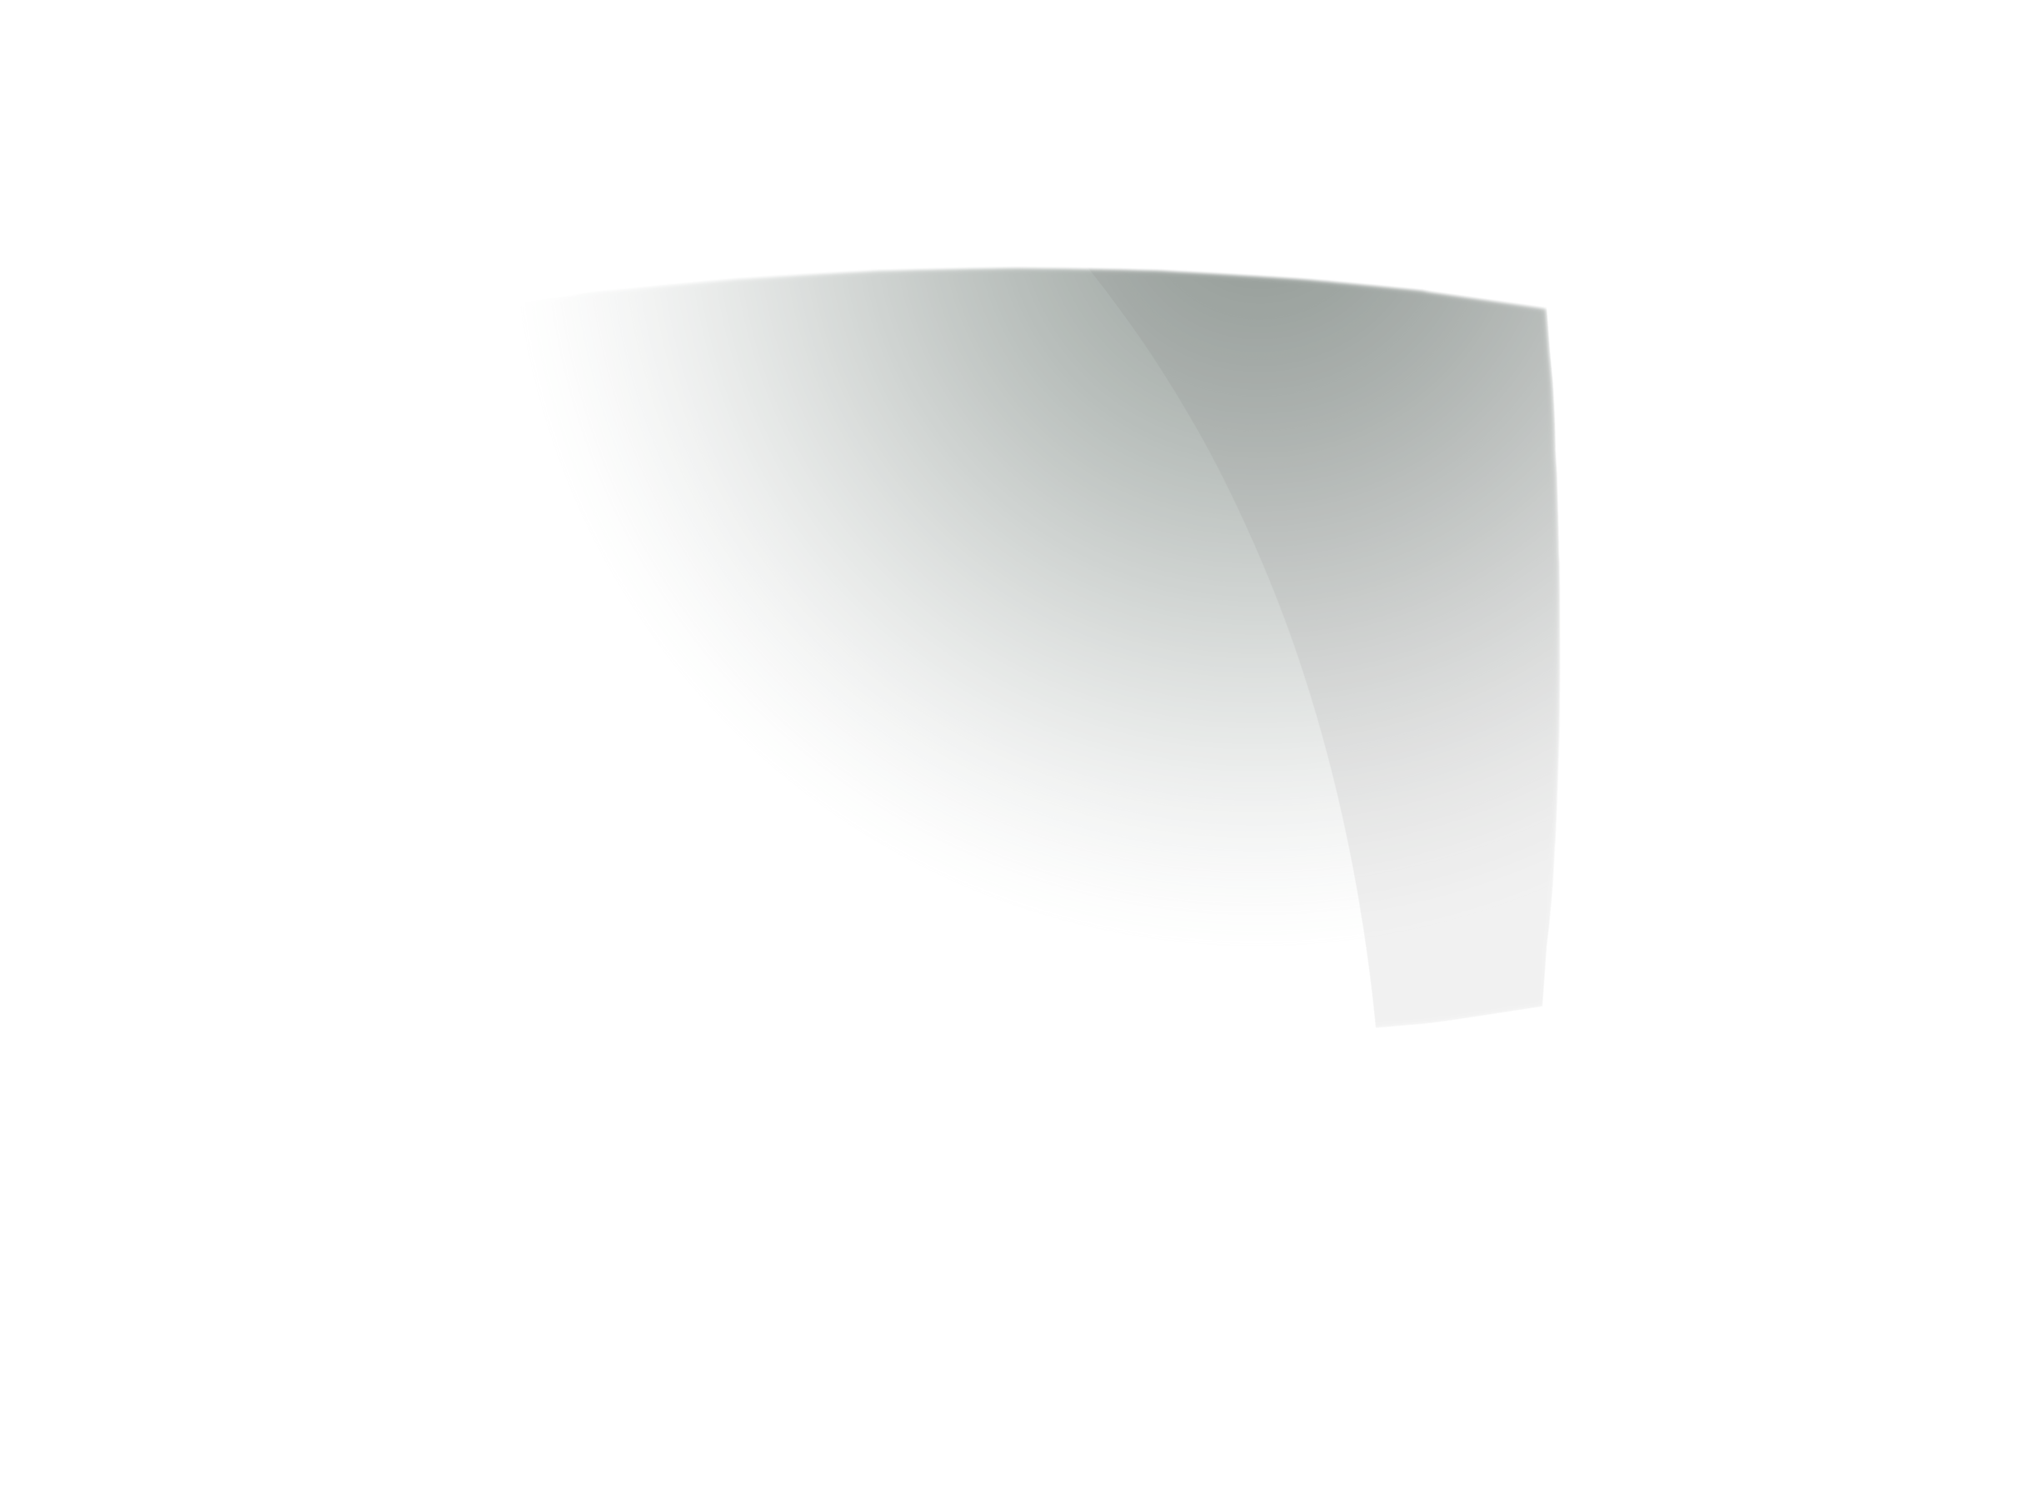
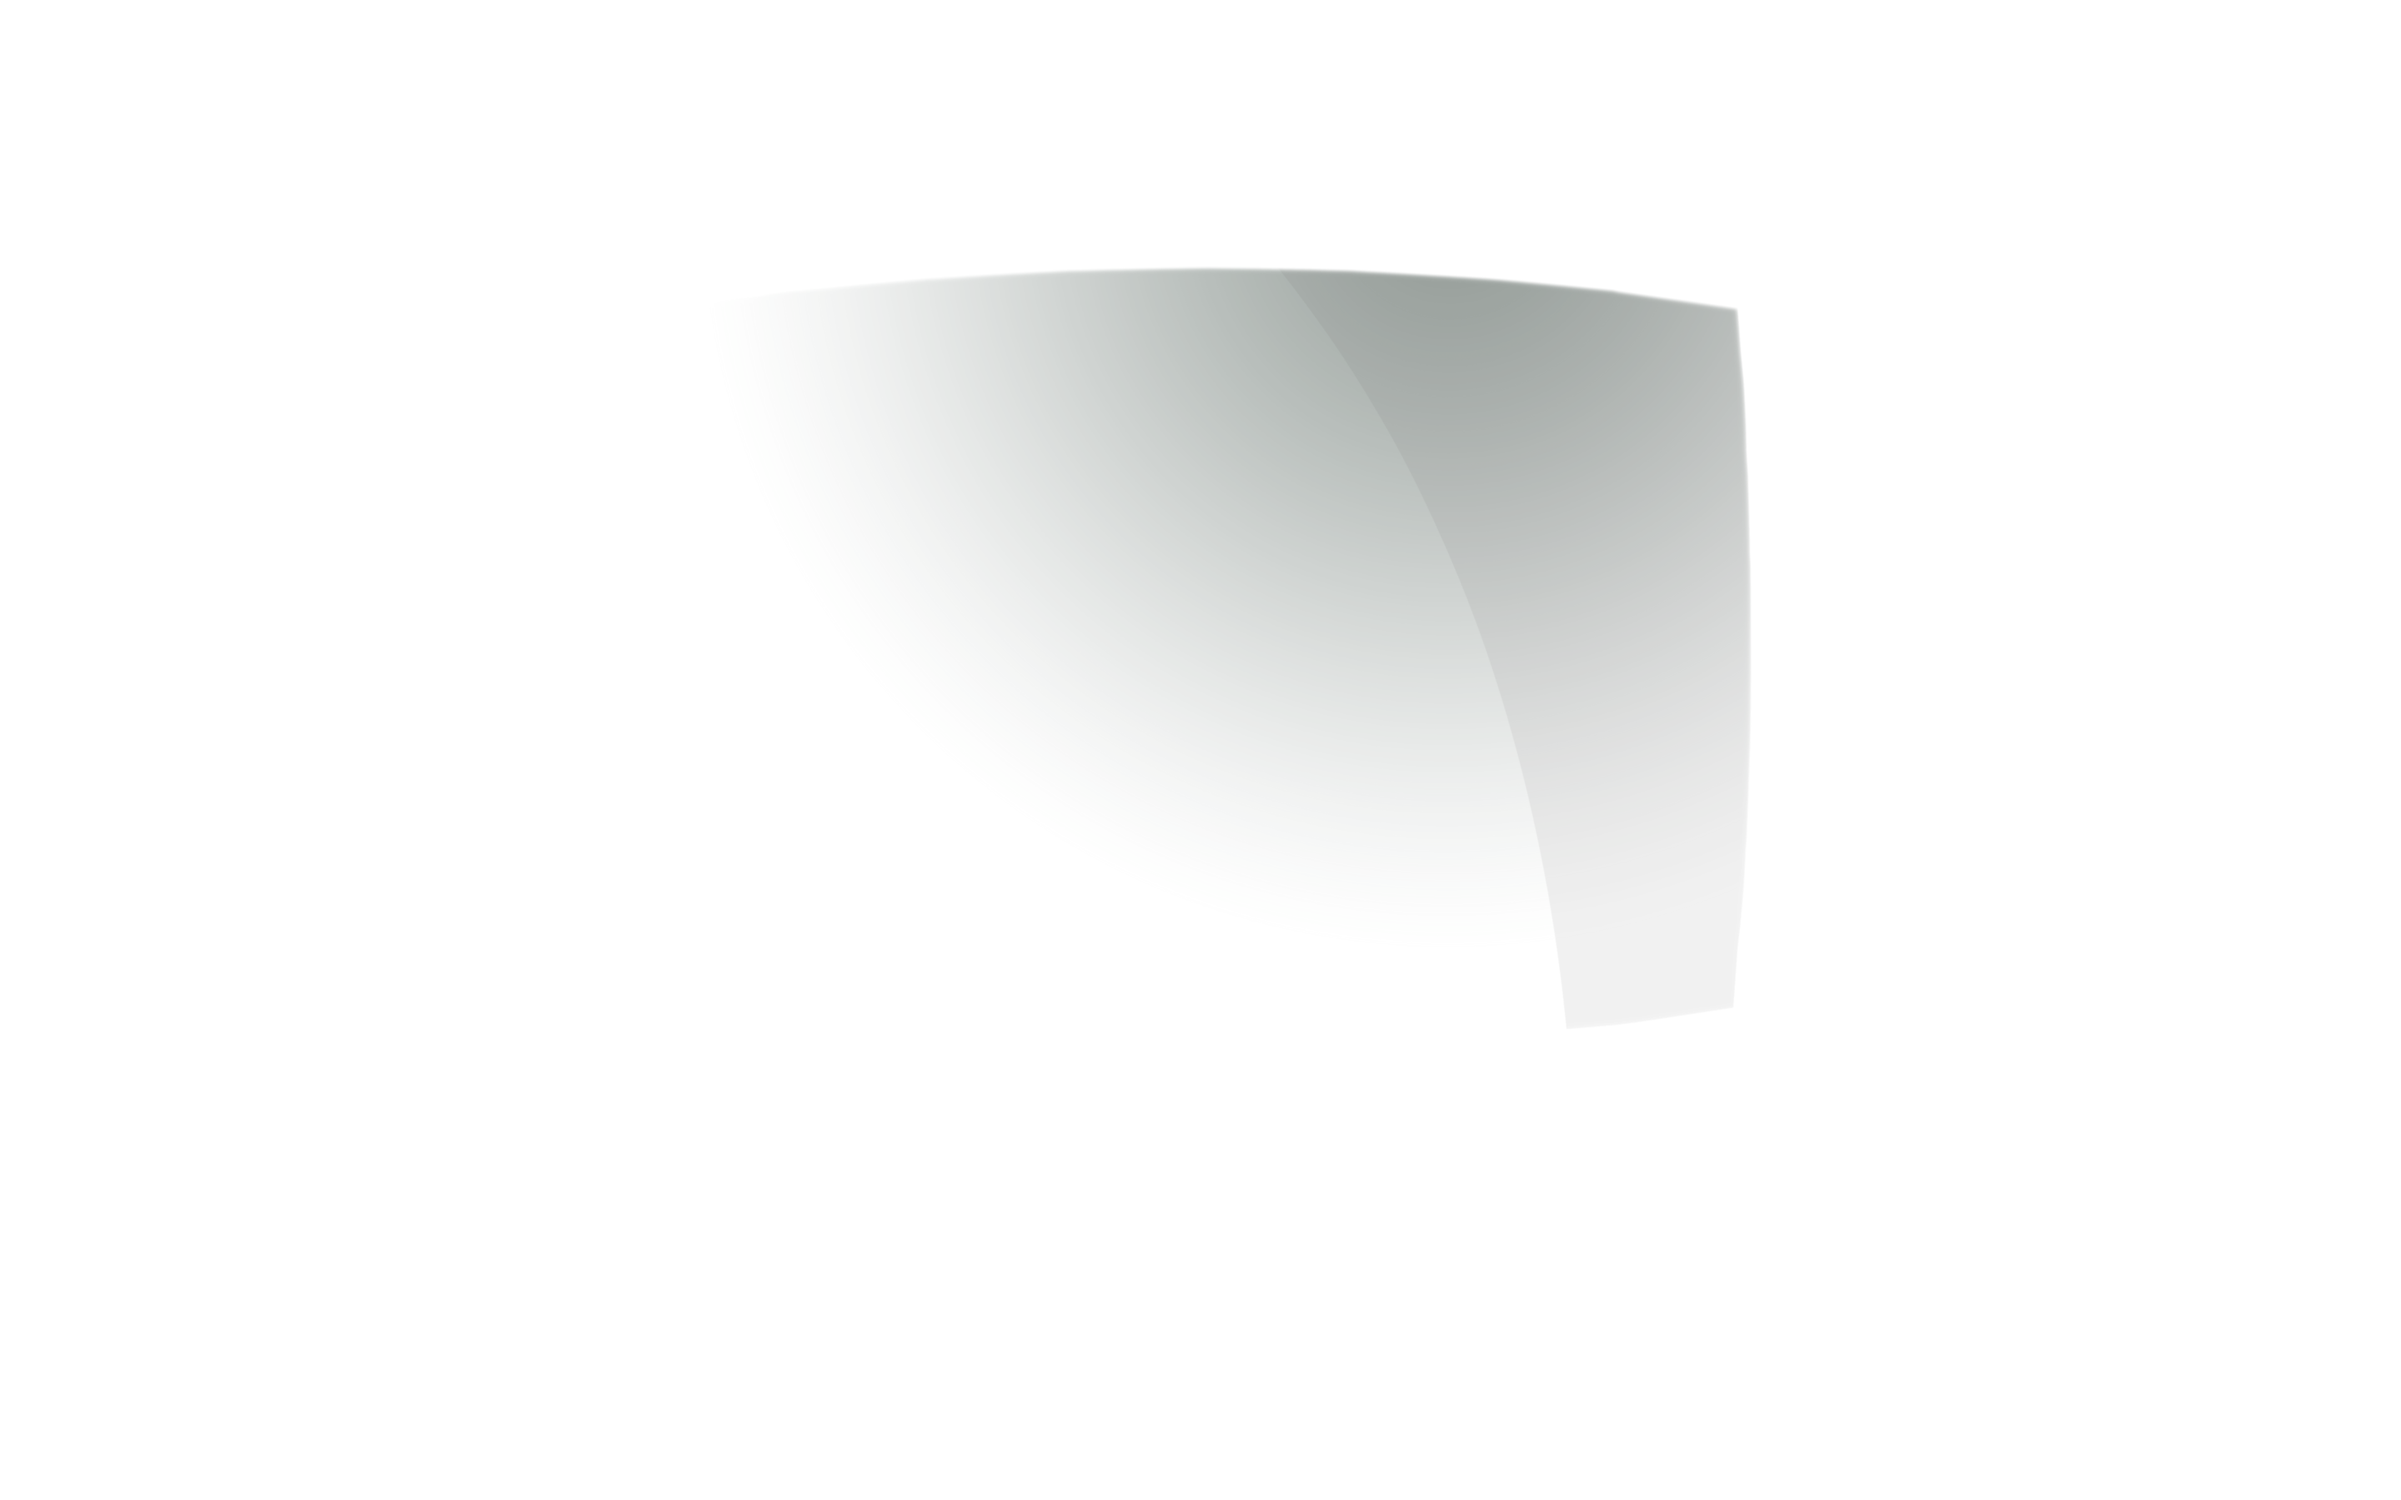
Finally committing the (mostly) finished environment.png

Changed region(s): [[0.6498, 0.1869, 0.7735, 0.5295]]

diff --git a/Resume/src/com/dab/resume/Environment.java b/Resume/src/com/dab/resume/Environment.java
@@ -51,10 +51,11 @@ public class Environment {
 		monitor_glow = new Sprite(texture);
 
 		// Set sprite sizes and positions
-		environment.setBounds(SCENE_X, SCENE_Y, SCENE_WIDTH, SCENE_HEIGHT);
+		environment.setSize(environment.getWidth()*SCENE_HEIGHT/environment.getHeight(), SCENE_HEIGHT);
+		environment.setPosition(0.0f - environment.getWidth()/2.0f, 0.0f - environment.getHeight()/2.0f);
 		colorgrade.setBounds(SCENE_X, SCENE_Y, SCENE_WIDTH, SCENE_HEIGHT);
-		monitor_glow.setBounds(SCENE_X, SCENE_Y, SCENE_WIDTH, SCENE_HEIGHT);
-		monitor_glare.setBounds(SCENE_X, SCENE_Y, SCENE_WIDTH, SCENE_HEIGHT);
+		monitor_glow.setBounds(environment.getX(), environment.getY(), environment.getWidth(), environment.getHeight());
+		monitor_glare.setBounds(environment.getX(), environment.getY(), environment.getWidth(), environment.getHeight());
 
 		// Set sprite alphas
 		colorgrade.setAlpha(0.1f);
